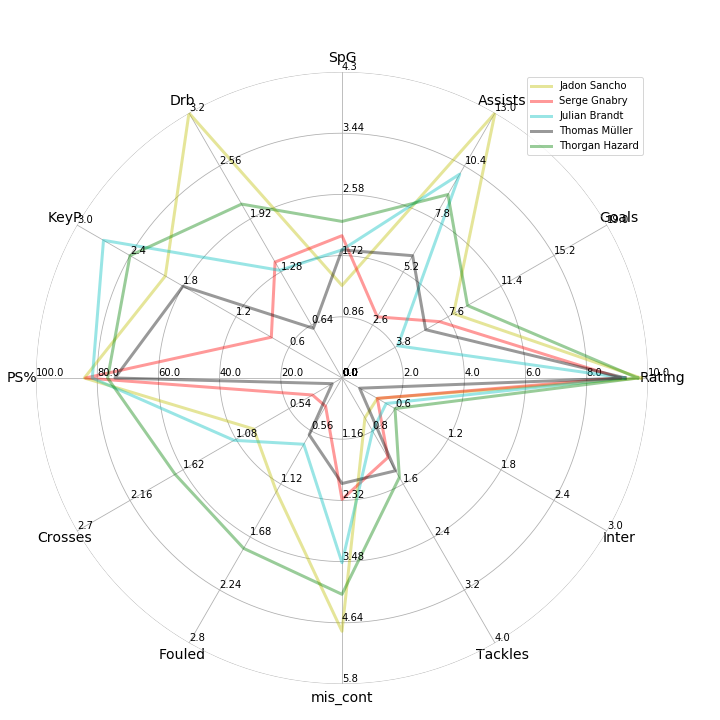
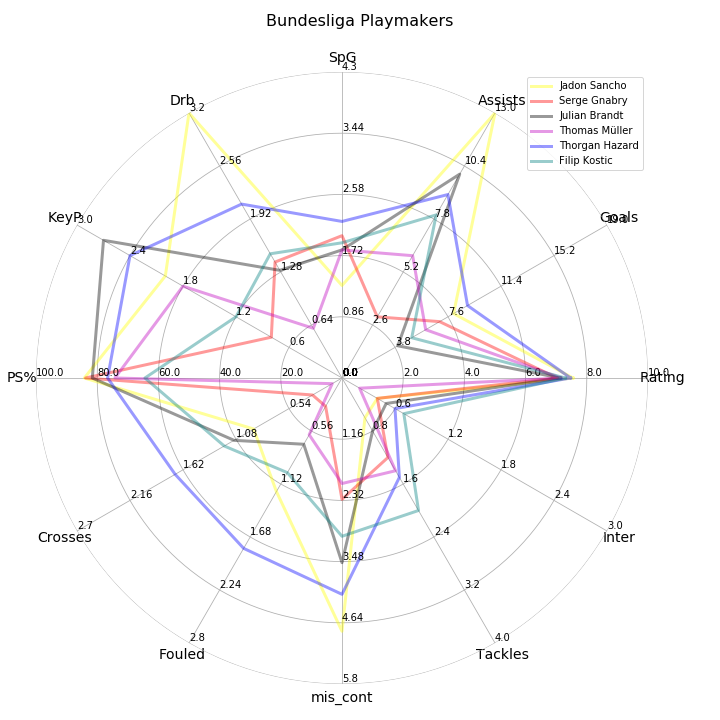
adding first batch of image files

diff --git a/src/funcs.py b/src/funcs.py
@@ -27,8 +27,9 @@ def league_seperator(df):
 
 #pass in a league dataframe, output scaled features
 def DF_Scaler(df):
-    cols = ['Rating','Goals', 'Assists', 'SpG', 'PS%','KeyP', 'Drb',
+    cols = ['Goals', 'Assists', 'SpG', 'PS%','KeyP', 'Drb',
     'Fouled','mis_cont', 'Tackles', 'Inter', 'Crosses', 'Fouls', 'Clear', 'Blocks']
+    df['Rating'] = (df['Rating']*5)/10
     for item in cols:
         Max = df[item].max()
         df[item] = (df[item]*5)/Max

diff --git a/src/Archive_info_generate_charts.py b/src/Archive_info_generate_charts.py
@@ -1,0 +1,8 @@
+#Saved information for generating plots:
+#Bund Playmakers:
+Sancho = bundesliga_chart_df.loc[1924].values
+Gnabry = bundesliga_chart_df.loc[1716].values
+Brandt = bundesliga_chart_df.loc[1654].values
+Muller = bundesliga_chart_df.loc[1719].values
+Hazard = bundesliga_chart_df.loc[1959].values
+Kostic = bundesliga_chart_df.loc[1677].values
